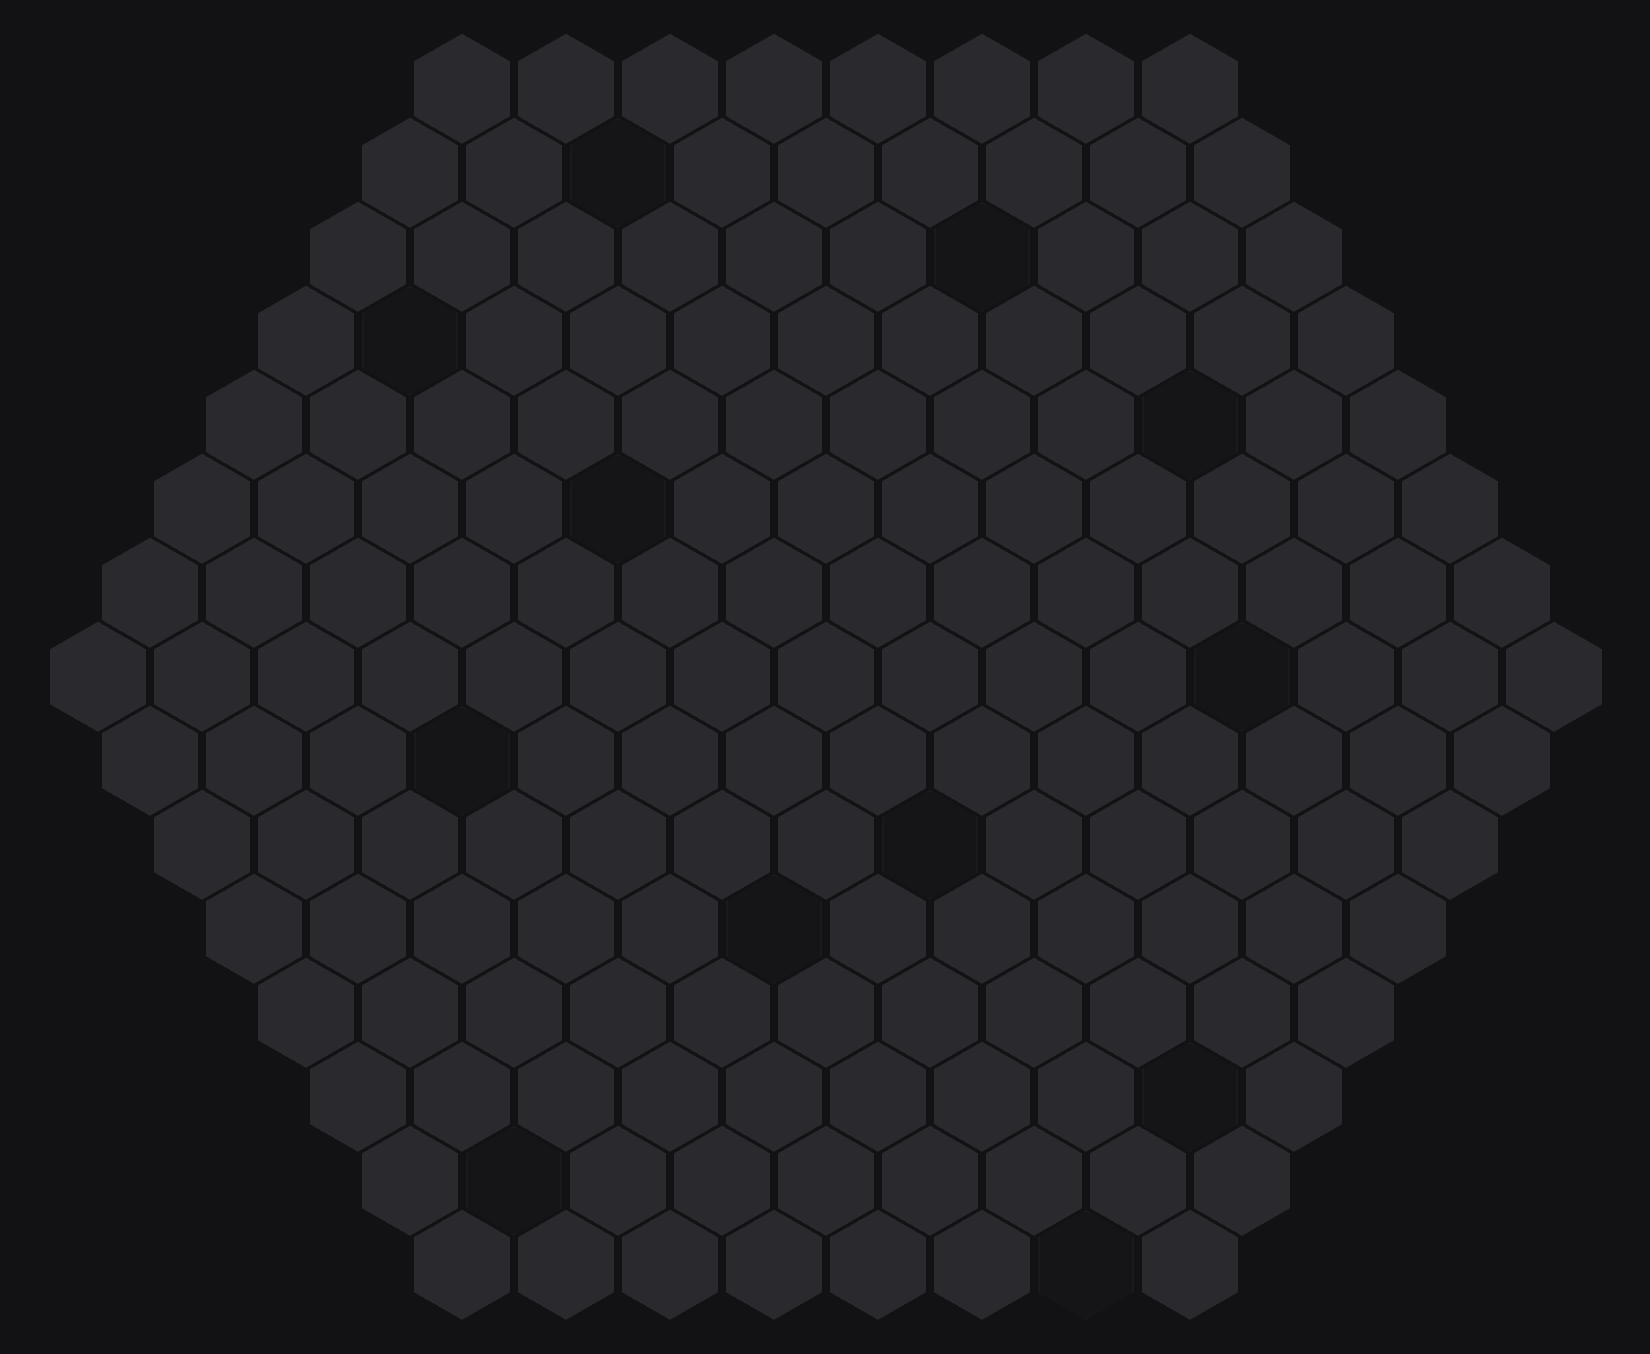
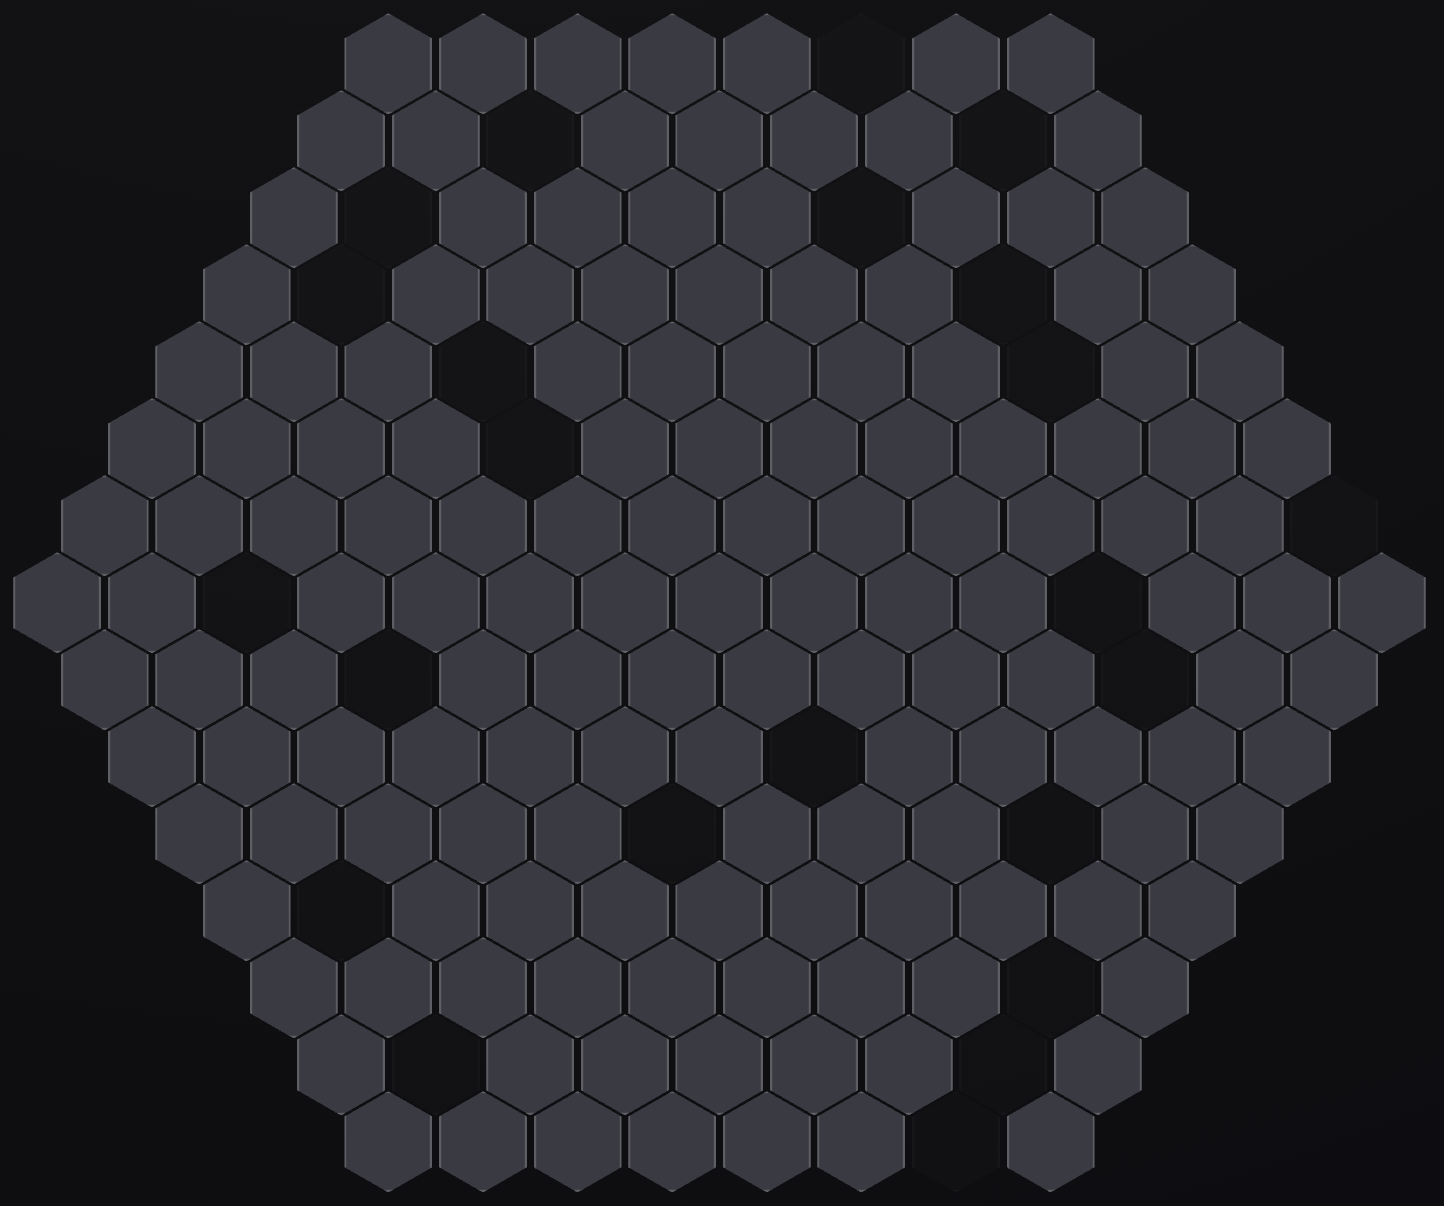
[slides] maybe usable

diff --git a/slides/slides.tex b/slides/slides.tex
@@ -50,12 +50,13 @@
   \vspace{0.4em}
   % \large
   分配支持者、劃定選區，最終獲取最多的支持者！
-  \begin{figure}[hc]
+  \begin{figure}[hcp]
     \centering
     \includegraphics[width=0.32\textwidth]{blank}
-    \includegraphics[width=0.32\textwidth]{distri}
+    \includegraphics[width=0.32\textwidth]{some}
+    \vfill
     \includegraphics[width=0.32\textwidth]{placement}
-    \label{fig:three-images}
+    \vfill
   \end{figure}
 \end{frame}
 
@@ -63,80 +64,68 @@
 \begin{frame}{島嶼與棲地} 
   \vspace{0.4em}
   \large
-  \textbf{島嶼}最初為一個由六角塊組合而成的地圖，一個六角塊則相當於島上的一塊\textbf{棲地}。
+    一個六角形的網格為一塊\textbf{棲地}，許多棲地共同組成\textbf{島嶼}。
 \vspace{0.4em}
 
 \centering
-\includegraphics[width=0.32\textwidth]{blank}
+\includegraphics[width=0.5\textwidth]{blank}
 \end{frame}
 
 % page 
 \begin{frame}{猴子}
   \vspace{0.4em}
     \large
-    \text{猴子}是島上的居民，居住於棲地內。此外，每隻猴子都會有各自支持的小隊。
+    每隻\text{猴子}代表支持某小隊的勢力，可以把猴子分配到棲地上。
+
 \vspace{0.4em}
 
 \centering
-\includegraphics[width=0.32\textwidth]{ballots}
-\end{frame}
-
-% page 
-\begin{frame}{棲地單調條款}
-  \vspace{0.4em}
-  \large
-  某個階段後（後續將詳述），同一棲地內的猴子會轉而支持原先在該棲地內獲得多數支持的小隊，即在棲地內贏者全拿。
-\vspace{0.4em}
-
-    \centering
-    \includegraphics[width=0.32\textwidth]{distri}
-\end{frame}
-
-% page 
-\begin{frame}{蠑螈法案}
-  \vspace{0.4em}
-  \large
-  最終多個相連的棲地可能被統一計算，在其中佔猴子支持度絕對多數的小隊可以獲得相等於這些棲地內猴子總數的票數。
-  \vspace{0.4em}
-
-    \centering
-    \includegraphics[width=0.32\textwidth]{placement}
+% \includegraphics[width=0.32\textwidth]{ballots}
+\includegraphics[width=0.5\textwidth]{some}
 \end{frame}
 
 % page 
 \begin{frame}{遊戲流程}
   \vspace{0.4em}
   \large
-  遊戲共有兩個階段，第一個階段小隊要在島嶼的各個棲地上分配自己的支持者，第二階段則是將多個棲地劃到一起，一起的棲地最終將被統一計算支持度。
+  遊戲共有兩個階段，第一階段小隊要在島嶼的各個棲地上分配自己的支持者，第二階段則是將多個棲地用板塊劃到一起，試圖讓板塊中多數的猴子都支持自己。
 \end{frame}
 
 % page 
-\begin{frame}{階段一：拉幫結社}
+\begin{frame}{階段一：分配勢力}
   \vspace{0.4em}
   \begin{itemize}
-    \item \textbf{目標：}小隊分配支持自己的猴子到各個棲地上
-    \item 共進行三輪
+    \item 共進行三輪，每輪 3 分鐘
     \item 每輪每隊最多可以分配 100 隻猴子
-    \item 前兩輪結束時會公布所有小隊的分配情形
-    \item 每一輪分配時間 3 分鐘，中途不暫停
+    \item 第一輪每格每隊最多放 20 隻猴子、第二輪 25 隻、第三輪 30 隻
+    \item 前兩輪結束皆會公布所有小隊的分配情形
   \end{itemize}
+\vspace{0.4em}
+
+    \centering
+    \includegraphics[width=0.6\textwidth]{anno}
 \end{frame}
 
 % page 
-\begin{frame}{階段一：拉幫結社}
+\begin{frame}{搶奪他人的猴子！}
   \vspace{0.4em}
+    同一棲地內的猴子會轉而支持原先在該棲地內獲得多數支持的小隊
   \begin{itemize}
-    \item 第三輪結束時將結算猴子的支持狀況
+    \item 三輪結束後將進行猴子內戰
     \item 每個棲地內有最多數量猴子的小隊將可以獲得該棲地內所有猴子
     \item 若不存在絕對多數，則棲地內所有猴子都會集體消失
   \end{itemize}
+\vspace{0.4em}
+
+    \centering
+    \includegraphics[width=0.6\textwidth]{distri}
 \end{frame}
 
 % page 
-\begin{frame}{階段二：搶奪地盤}
+\begin{frame}{階段二：傑利蠑螈}
   \vspace{0.4em}
   \begin{itemize}
-    \item 每個小隊有一些包含五個相連棲地的板塊
+    \item 每個小隊有一些包含五個相連棲地的板塊，階段ㄧ即可預覽
     \item 小隊依\textbf{階段一}放置猴子的變異數由大至小輪流放板塊
     \begin{itemize}
       \item 只考慮有放的格子
@@ -146,16 +135,22 @@
   \vspace{0.4em}
 
     \centering
-    \includegraphics[width=0.32\textwidth]{clusters}
+    \includegraphics[width=0.55\textwidth]{clusters}
 \end{frame}
 
 % page 
-\begin{frame}{階段二：搶奪地盤}
+\begin{frame}{俗話說得蠑螈者得天下}
   \vspace{0.4em}
   \begin{itemize}
-    \item 板塊框住的棲地適用\textbf{蠑螈法案}
-    \item 每組板塊內有最多猴子的小隊獲得相等於猴子總數的分數
+    \item 五格內有最多猴子支持的小隊獨得所有猴子
+    \item 點兩下可以旋轉板塊、拖曳可以放置
+    \item 注意時間！！！
   \end{itemize}
+
+  \vspace{0.4em}
+
+    \centering
+    \includegraphics[width=0.55\textwidth]{placement}
 \end{frame}
 
 % page 
@@ -170,16 +165,16 @@
 \begin{tabular}{|c|c|}
 \hline
     \textbf{名次} & \textbf{分數} \\ \hline
-    ㄧ & 25 \\ \hline
-    二 & 21 \\ \hline
-    三 & 18 \\ \hline
-    四 & 15 \\ \hline
-    五 & 12 \\ \hline
-    六 & 10 \\ \hline
-    七 & 8 \\ \hline
-    八 & 6 \\ \hline
-    九 & 5 \\ \hline
-    十 & 4 \\ \hline
+    ㄧ & 10 \\ \hline
+    二 & 9 \\ \hline
+    三 & 8 \\ \hline
+    四 & 7 \\ \hline
+    五 & 6 \\ \hline
+    六 & 5 \\ \hline
+    七 & 4 \\ \hline
+    八 & 3 \\ \hline
+    九 & 2 \\ \hline
+    十 & 1 \\ \hline
 \end{tabular}
 \label{tab:example}
 \end{table}
@@ -189,8 +184,12 @@
 \begin{frame}{LINK}
   \vspace{0.4em}
   \centering
-  
-  \texttt{https://csiecamp.csie.org/gerrymandering}
+
+\begin{itemize}
+  \item \texttt{https://csiecamp.csie.org/gerrymandering}
+    \item 帳密：\texttt{group\#}
+    \item 請每隊使用\textbf{一台電腦}登入
+\end{itemize}
   
 \end{frame}
 